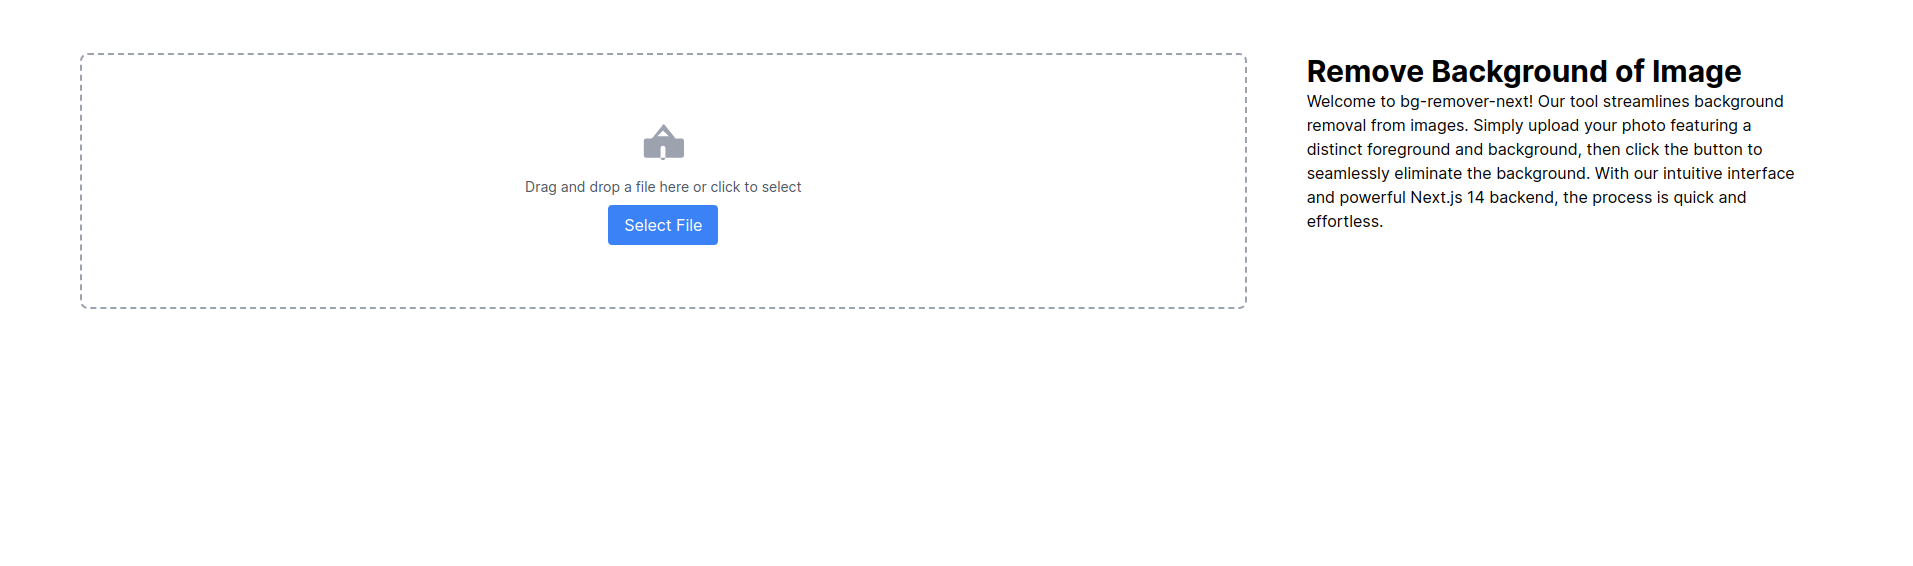
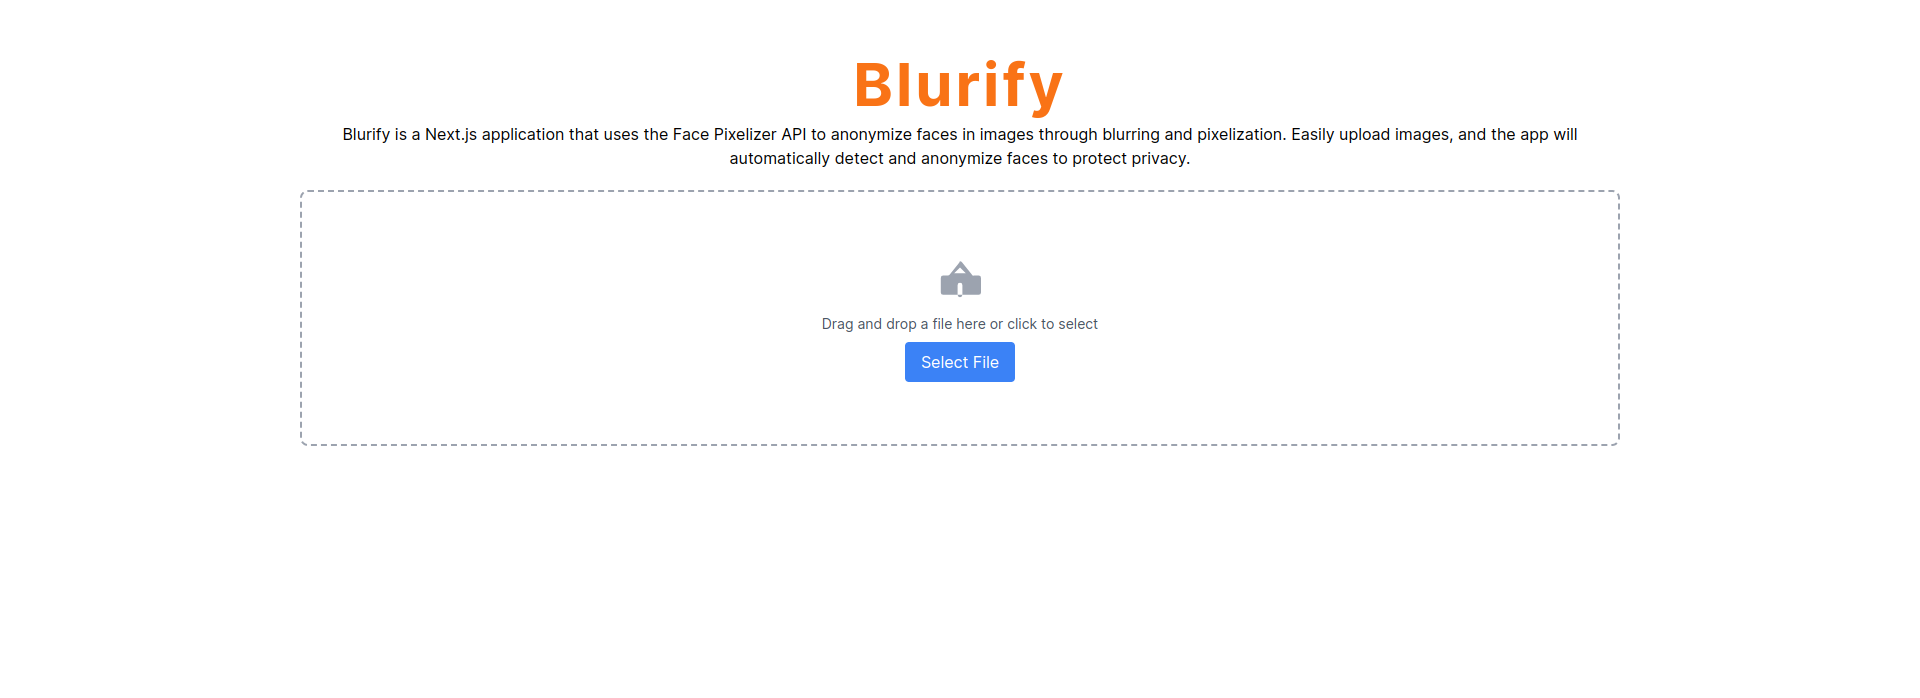
Readme update

diff --git a/components/Fileupload.jsx b/components/Fileupload.jsx
@@ -136,7 +136,7 @@ const FileUpload = () => {
                     (uploadedFile && !errors.message) && <button onClick={() => handleRemove()} className={`bg-red-300 px-4 py-2 text-center rounded w-[100%]`} disabled={loading}>{loading ? 'Bluring...' : 'Blurify'}</button>
                 }
                 {
-                    (errors.message) && <button onClick={() => { setUploadedFile(null), setLoading(false), setErrors([]) }} className='px-4 py-2 text-center rounded w-[100%] border'>Upload Again</button>
+                    (errors.message) && <button onClick={() => { setUploadedFile(null), setLoading(false), setErrors({}) }} className='px-4 py-2 text-center rounded w-[100%] border'>Upload Again</button>
                 }
             </div>}
         </div>

diff --git a/README.md b/README.md
@@ -1,12 +1,52 @@
-# bg-remover-next
+# Anonymize Faces App
 
-bg-remover-next is a web application built with Next.js 14 for removing the background of images. The application uses the [Remove.bg API](https://www.remove.bg/api) to handle the background removal process.
+Anonymize Faces App is a Next.js application that uses the Face Pixelizer API to anonymize faces in images through blurring and pixelization. Easily upload images, and the app will automatically detect and anonymize faces to protect privacy.
 
 ## Features
 
-- Upload images with a clear foreground and background
-- Remove the background with a single click
-- Simple and intuitive user interface
+- Upload images directly from your device.
+- Automatically detect and anonymize faces in the uploaded images.
+- Display the original and anonymized images.
+
+## Getting Started
+
+### Prerequisites
+
+Ensure you have the following installed on your system:
+
+- Node.js (>= 12.x)
+- npm (>= 6.x)
+
+### Installation
+
+1. Clone the repository:
+
+   ```bash
+   git clone https://github.com/sudeepmi/anonymize-faces-app.git
+   cd anonymize-faces-app
+   ```
+
+2. Install the dependencies:
+
+   ```bash
+   npm install
+   ```
+
+3. Create a `.env.local` file in the root directory and add your Face Pixelizer API key:
+
+   ```env
+   API_KEY=your_api_key_here
+   ```
+
+### Running the App
+
+Start the development server:
+
+```bash
+npm run dev
+```
+
+Open your browser and navigate to [http://localhost:3000](http://localhost:3000) to see the app in action.
 
 ## Screenshots
 
@@ -22,56 +62,28 @@ bg-remover-next is a web application built with Next.js 14 for removing the back
 ![Error Screen](./screenshots/error.png)
 *The background is not removed from the image.*
 
-## Getting Started
-
-These instructions will get you a copy of the project up and running on your local machine for development and testing purposes.
-
-### Prerequisites
-
-- Node.js (version 14 or later)
-- npm (version 6 or later)
-
-### Installation
-
-1. Clone the repository:
-    ```sh
-    git clone https://github.com/yourusername/bg-remover-next.git
-    cd bg-remover-next
-    ```
-
-2. Install the dependencies:
-    ```sh
-    npm install
-    ```
-
-3. Create a `.env` file in the root directory and add your API key:
-    ```sh
-    NEXT_PUBLIC_REMOVE_BG_API_KEY=your_api_key_here
-    ```
-
-4. Run the development server:
-    ```sh
-    npm run dev
-    ```
-
-5. Open [http://localhost:3000](http://localhost:3000) with your browser to see the result.
-
 ## Usage
 
-1. Upload a photo with a distinct foreground and background.
-2. Click the "Remove Background" button.
-3. Wait for the process to complete and view the result.
+1. Drag and drop an image onto the upload area or click to select an image from your device.
+2. The app will upload the image to the Face Pixelizer API.
+3. The anonymized image will be displayed below the upload area.
 
-## Built With
+## Dependencies
 
-- [Next.js](https://nextjs.org/) - The React Framework
-- [Remove.bg API](https://www.remove.bg/api) - Background removal API
+- [Next.js](https://nextjs.org/)
+- [React](https://reactjs.org/)
+- [Axios](https://github.com/axios/axios)
+- [React Dropzone](https://react-dropzone.js.org/)
+
+## Contributing
+
+Contributions are welcome! Please open an issue or submit a pull request for any improvements or bug fixes.
 
 ## License
 
-This project is licensed under the MIT License - see the [LICENSE](LICENSE) file for details.
+This project is licensed under the MIT License. See the [LICENSE](LICENSE) file for details.
 
 ## Acknowledgments
 
-- [Remove.bg](https://www.remove.bg/) for providing the API
+- Thanks to the developers of the Face Pixelizer API for providing an easy-to-use service for face anonymization.
 
